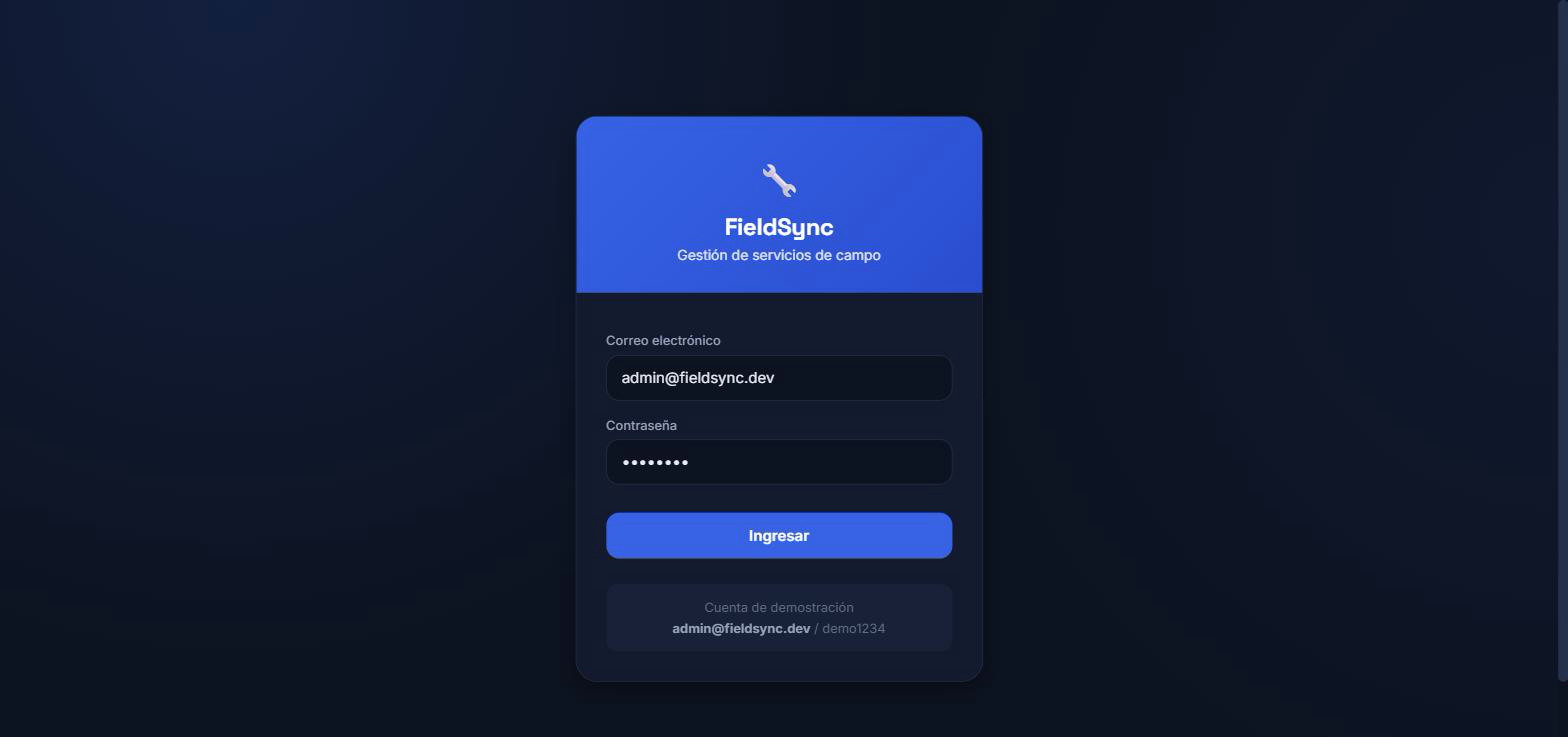
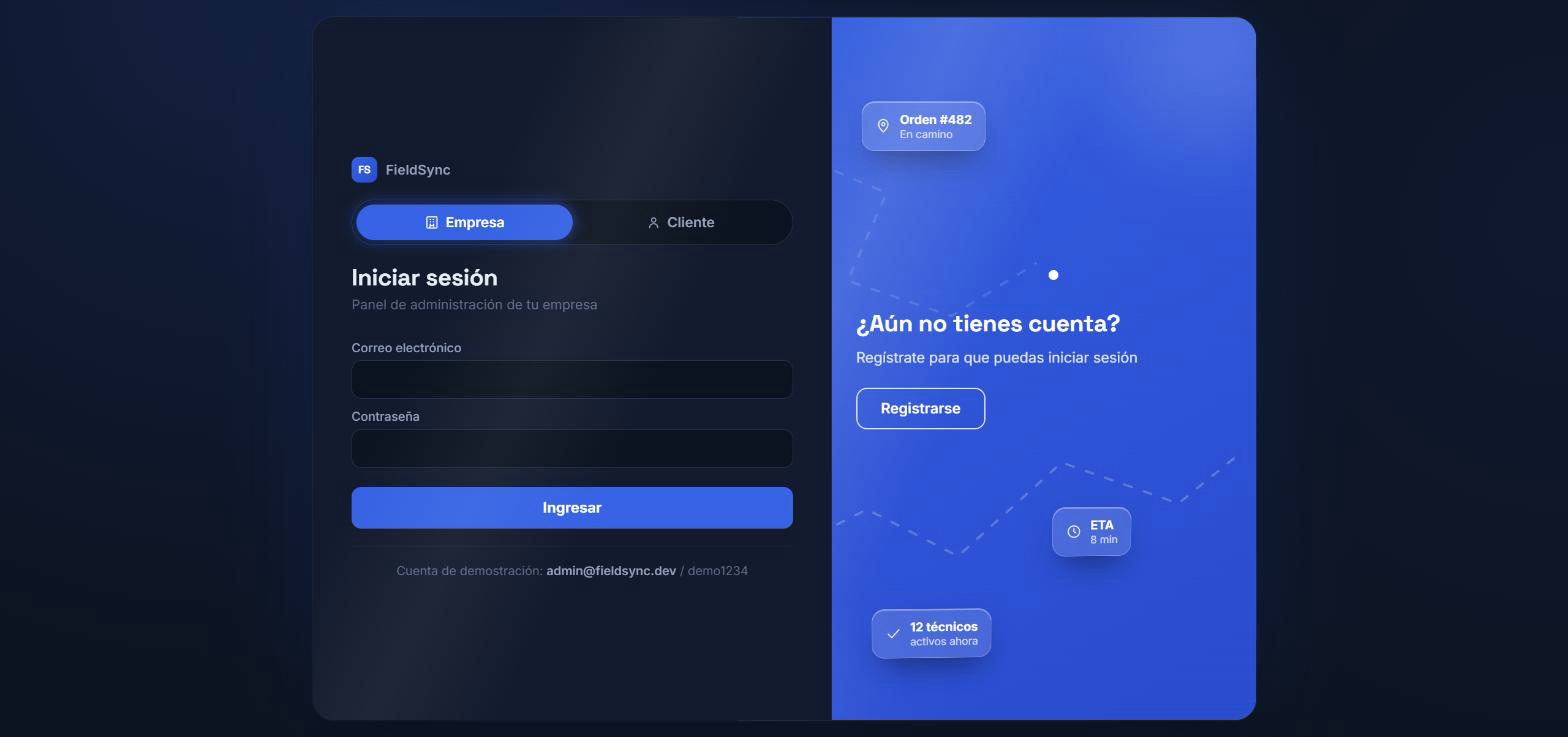
docs(web-admin): refresh login screenshot, document dual-auth + portal
web-login.png was captured before this session's full redesign (old
static login, no map illustration/animations) — recaptured against
production with the current design.

web-admin/README.md didn't mention anything built this session: the
dynamic Empresa/Cliente auth gateway, the two independent auth
identities (separate services/interceptors/guards mirroring the
backend's dual JWT providers), the code-only antifraud measures, or
the full customer portal (requests + GPS + live WebSocket tracking).
Documented all of it, plus the new guestGuard and updated file
structure. Root README's ecosystem table and demo-creds line now
mention the customer side too.

diff --git a/web-admin/README.md b/web-admin/README.md
@@ -1,6 +1,9 @@
 # FieldSync — Panel Web Admin (Angular)
 
-Panel de despacho para el administrador/despachador. Asigna órdenes de trabajo a técnicos sobre un mapa.
+Panel de despacho para el administrador/despachador — asigna órdenes de trabajo a técnicos sobre
+un mapa — y, en el mismo dominio, **portal completo para el cliente final**: pide servicio con su
+ubicación GPS y sigue a su técnico en vivo. Una sola pantalla de acceso dinámica sirve a ambos
+públicos.
 
 **En vivo:** [fieldsync-web-admin.vercel.app](https://fieldsync-web-admin.vercel.app) (Vercel) — conectado al backend real en Render + Aiven Postgres.
 
@@ -9,41 +12,71 @@ Panel de despacho para el administrador/despachador. Asigna órdenes de trabajo 
 - **Angular 18** (componentes standalone) + **TypeScript** en modo estricto
 - **Rutas** con carga diferida (lazy) por feature
 - **RxJS** + **Signals** para estado reactivo
-- **`HttpClient` conectado al backend real** (Ktor) — órdenes, técnicos, asignación y gestión de usuarios
-- **Leaflet + OpenStreetMap** — mapa interactivo real con marcadores de órdenes y técnicos
+- **`HttpClient` conectado al backend real** (Ktor) — órdenes, técnicos, asignación, usuarios y solicitudes de cliente
+- **WebSocket nativo** envuelto en un `Observable` — seguimiento de técnico en vivo para el cliente
+- **Leaflet + OpenStreetMap** — mapa interactivo real, tanto en el despacho (staff) como en el seguimiento (cliente)
+- **Geolocalización del navegador** (`navigator.geolocation`) — el cliente captura su ubicación real al pedir servicio
 
 > La URL base del backend está centralizada en `core/api.config.ts` y por defecto apunta a
 > producción (Render + Aiven). Para desarrollo local contra un backend en tu máquina
 > (`cd ../backend && gradle run`), cámbiala temporalmente a `http://localhost:8080`.
 
-### Autenticación
+### Acceso dinámico: dos identidades, una sola pantalla
 
-- **Login** en `/login` (demo: `admin@fieldsync.dev` / `demo1234`) → `AuthService` guarda el
-  access + refresh token en `localStorage` (la sesión sobrevive a recargas).
-- Un **HTTP interceptor** adjunta el Bearer y, ante un **401**, renueva el token con `/auth/refresh`
-  y reintenta la petición una vez; si el refresh falla, cierra la sesión.
-- Un **guard** (`authGuard`) protege `/dispatch`, `/orders` y `/team`, y redirige a `/login` sin sesión.
-- **RBAC en la UI**: el botón "Asignar" y la lista de técnicos solo aparecen para ADMIN/DISPATCHER
-  (el backend lo exige igual). Prueba con `dispatcher@fieldsync.dev` vs `tech@fieldsync.dev` (`demo1234`).
-- **Gestión de usuarios** (`/team`, solo ADMIN): lista y crea usuarios del tenant. Protegida por
-  `adminGuard` en el cliente además del RBAC del backend (`GET`/`POST /api/users`).
+`/login` y `/register` son el mismo componente (`AuthGatewayComponent`): una tarjeta que se
+desliza entre **Iniciar sesión** y **Registrarse**, con un selector **Empresa** ↔ **Cliente** que
+cambia los campos del formulario y a qué API/JWT apunta cada envío. Empresa y Cliente son
+**identidades completamente independientes** — servicios, interceptores, guards y claves de
+`localStorage` distintos (`AuthService`/`authInterceptor`/`authGuard` vs.
+`CustomerAuthService`/`customerAuthInterceptor`/`customerGuard`) — que coexisten en la misma app
+sin pisarse, reflejando los dos proveedores JWT separados del backend
+(`AUTH_JWT` / `AUTH_JWT_CUSTOMER`).
+
+- **Login empresa** en `/login` (demo: `admin@fieldsync.dev` / `demo1234`).
+- **Login cliente** en la misma pantalla, pestaña "Cliente" (demo: `cliente@fieldsync.dev` / `demo1234`).
+- `AuthService` / `CustomerAuthService` guardan access + refresh token en `localStorage` (la
+  sesión sobrevive a recargas). Cada **HTTP interceptor** adjunta el Bearer correspondiente y,
+  ante un **401**, renueva con `/auth/refresh` (o `/customer/auth/refresh`) y reintenta una vez.
+- **`guestGuard`** protege `/login` y `/register`: si ya hay sesión activa (de cualquiera de las
+  dos identidades), redirige directo a `/dispatch` o `/portal` en vez de mostrar el login —
+  evita el caso de ver el login y la cabecera autenticada a la vez.
+- **`authGuard`** protege `/dispatch`, `/orders` y `/team`; **`customerGuard`** protege
+  `/portal*`. **RBAC en la UI**: el botón "Asignar" y la lista de técnicos solo aparecen para
+  ADMIN/DISPATCHER. **Gestión de usuarios** (`/team`, solo ADMIN) va detrás de `adminGuard`
+  además del RBAC del backend.
+- **Antifraude de registro** (backend, código propio — sin CAPTCHA de terceros): campo honeypot
+  invisible, rate limiting por IP con ventana deslizante, y bloqueo de dominios de correo
+  desechables. Ambos formularios de registro (empresa y cliente) pasan por el mismo guard.
+
+### Portal de cliente
+
+Tras iniciar sesión como cliente, el panel se convierte en un portal de seguimiento de
+servicios — el equivalente web de la app móvil (`client-app`, React Native):
+
+- **`/portal`** — lista de solicitudes propias, con estado y prioridad.
+- **`/portal/new`** — nueva solicitud: título, dirección, prioridad y **ubicación GPS real**
+  capturada con `navigator.geolocation`; el envío queda deshabilitado hasta capturarla.
+- **`/portal/tracking/:id`** — mapa Leaflet con la posición del técnico actualizándose en vivo
+  vía WebSocket (`/ws/tracking/{orderId}`), la misma conexión que usa la app React Native.
 
 ## Estructura
 
 ```
 src/app/
 ├── core/
-│   ├── guards/    authGuard, adminGuard
-│   ├── models/    auth.model.ts, work-order.model.ts (tipos compartidos)
-│   └── services/  auth.service.ts, user-management.service.ts, work-order.service.ts
+│   ├── guards/     authGuard, adminGuard, customerGuard, guestGuard
+│   ├── models/     auth.model.ts, customer.model.ts, work-order.model.ts (tipos compartidos)
+│   └── services/   auth.service.ts, customer-auth.service.ts, customer-portal.service.ts,
+│                    customer-tracking.service.ts, user-management.service.ts, work-order.service.ts
 ├── features/
 │   ├── map-dispatch/   mapa Leaflet + asignación inteligente  ← característica clave #1
-│   ├── work-orders/    listado de órdenes
+│   ├── work-orders/    listado de órdenes (staff)
 │   ├── users/           gestión de usuarios del tenant (solo ADMIN)
-│   └── auth/            login
-├── app.component.ts    shell + navegación
+│   ├── auth/             AuthGatewayComponent — login/registro dinámico, dos identidades
+│   └── portal/           portal de cliente: mis solicitudes, nueva solicitud (GPS), seguimiento en vivo
+├── app.component.ts    shell + navegación (se adapta a la sesión activa)
 ├── app.routes.ts       rutas lazy
-└── app.config.ts       providers (router, interceptor)
+└── app.config.ts       providers (router, interceptores)
 ```
 
 ## Ejecutar

diff --git a/README.md b/README.md
@@ -16,7 +16,7 @@ Conecta la oficina, al técnico en la calle y al cliente final en un solo flujo,
 ![TypeScript](https://img.shields.io/badge/TypeScript-3178C6?logo=typescript&logoColor=white)
 
 [![CI](https://github.com/BRIAM13/fieldsync-saas/actions/workflows/ci.yml/badge.svg)](https://github.com/BRIAM13/fieldsync-saas/actions/workflows/ci.yml)
-Repo: [github.com/BRIAM13/fieldsync-saas](https://github.com/BRIAM13/fieldsync-saas) · **Panel en vivo:** [fieldsync-web-admin.vercel.app](https://fieldsync-web-admin.vercel.app) (Vercel) · **Backend en vivo:** [fieldsync-backend-cipm.onrender.com](https://fieldsync-backend-cipm.onrender.com/health) (Render + Aiven Postgres) · Cuenta demo: `admin@fieldsync.dev` / `demo1234`
+Repo: [github.com/BRIAM13/fieldsync-saas](https://github.com/BRIAM13/fieldsync-saas) · **Panel en vivo:** [fieldsync-web-admin.vercel.app](https://fieldsync-web-admin.vercel.app) (Vercel) · **Backend en vivo:** [fieldsync-backend-cipm.onrender.com](https://fieldsync-backend-cipm.onrender.com/health) (Render + Aiven Postgres) · Cuenta demo empresa: `admin@fieldsync.dev` / `demo1234` · Cuenta demo cliente: `cliente@fieldsync.dev` / `demo1234`
 
 > **Sobre este repositorio.** FieldSync es la **pieza central del portafolio** de Briam Ronceros
 > para postular a puestos de **Desarrollador Android**. Cada componente está elegido para
@@ -32,7 +32,7 @@ Tres aplicaciones sobre un modelo de dominio común:
 | Pieza | Usuario | Stack | Rol |
 |-------|---------|-------|-----|
 | [`android-app/`](android-app/) | Técnico en la calle | **Kotlin** · Clean Arch + MVVM · Compose · Room · WorkManager | Recibe, ejecuta y cierra órdenes **offline-first** |
-| [`web-admin/`](web-admin/) | Despachador / admin | **Angular 18** · TypeScript · RxJS | Asigna tareas sobre un mapa |
+| [`web-admin/`](web-admin/) | Despachador / admin **y** cliente final | **Angular 18** · TypeScript · RxJS | Asigna tareas sobre un mapa; portal web del cliente (solicitud + GPS + seguimiento en vivo) |
 | [`client-app/`](client-app/) | Cliente final | **React Native** (Expo) | Solicita un servicio (con GPS) y sigue a su técnico **en tiempo real** |
 | [`backend/`](backend/) | — (API compartida) | **Ktor** · Kotlin · WebSockets | Conecta las tres apps: REST + tiempo real |
 | [`marketing/`](marketing/) | — | **HyperFrames** (HTML/CSS/GSAP) | Video promocional → MP4 |
